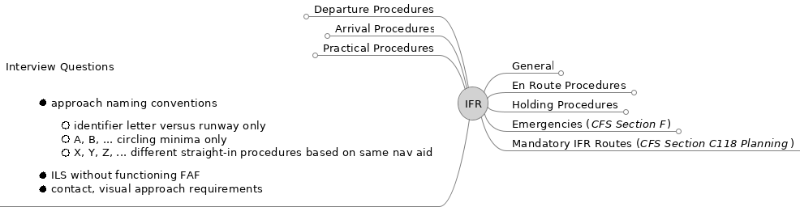
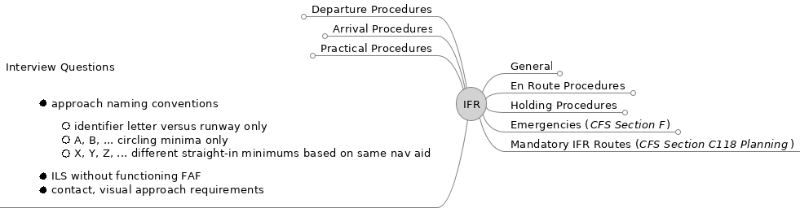
extended IFR mind map

diff --git a/MIFR/IFR.mm b/MIFR/IFR.mm
@@ -177,11 +177,46 @@
 </node>
 <node CREATED="1579645689253" ID="ID_80744334" MODIFIED="1579645696519" TEXT="Development of Instrument Procedures"/>
 </node>
-<node CREATED="1579633414558" FOLDED="true" ID="ID_654204230" MODIFIED="1600721240483" POSITION="left" TEXT="Departure Procedures">
+<node CREATED="1579633414558" FOLDED="true" ID="ID_654204230" MODIFIED="1600805173478" POSITION="left" TEXT="Departure Procedures">
 <node CREATED="1579645753810" ID="ID_1034102258" MODIFIED="1579645765446" TEXT="Aerodrome Operations"/>
 <node CREATED="1579645777165" ID="ID_948846528" MODIFIED="1579645790319" TEXT="Automatic Terminal Information System (ATIS) Broadcast"/>
 <node CREATED="1579645820876" ID="ID_1542868492" MODIFIED="1579645824944" TEXT="Initial Contact"/>
-<node CREATED="1579645828133" ID="ID_72886895" MODIFIED="1579645831414" TEXT="IFR Clearances"/>
+<node CREATED="1579645828133" ID="ID_72886895" MODIFIED="1600803230251">
+<richcontent TYPE="NODE"><html>
+  <head>
+    
+  </head>
+  <body>
+    <p>
+      IFR Clearances
+    </p>
+    <p>
+      
+    </p>
+    <ul>
+      <li>
+        <b>CRAFT</b>
+      </li>
+      <li>
+        <b>C</b>learance Limit (fix or destination)
+      </li>
+      <li>
+        <b>R</b>oute (DP, FPR)
+      </li>
+      <li>
+        <b>A</b>ltitudes
+      </li>
+      <li>
+        <b>F</b>requencies
+      </li>
+      <li>
+        <b>T</b>ransponder Code
+      </li>
+    </ul>
+  </body>
+</html>
+</richcontent>
+</node>
 <node CREATED="1579645846990" ID="ID_425430365" MODIFIED="1579645964937">
 <richcontent TYPE="NODE"><html>
   <head>
@@ -410,7 +445,39 @@
 </node>
 </node>
 <node CREATED="1579644396728" ID="ID_1220853600" MODIFIED="1579644402728" TEXT="Release from Tower Frequency"/>
-<node CREATED="1579644466100" ID="ID_1705369011" MODIFIED="1579644474483" TEXT="Departures from Uncontrolled Airports"/>
+<node CREATED="1579644466100" ID="ID_1705369011" MODIFIED="1600804158477">
+<richcontent TYPE="NODE"><html>
+  <head>
+    
+  </head>
+  <body>
+    <p>
+      Departures from Uncontrolled Airports
+    </p>
+    <p>
+      
+    </p>
+    <ul>
+      <li>
+        clearance indirectly via FSS from ATC
+      </li>
+      <li>
+        clearance directly from ATC (center)
+      </li>
+      <li>
+        hold until release
+      </li>
+      <li>
+        clearance void time
+      </li>
+      <li>
+        option: depart VFR, obtain IFR clearance when airborne
+      </li>
+    </ul>
+  </body>
+</html>
+</richcontent>
+</node>
 <node CREATED="1579644760443" ID="ID_77314256" MODIFIED="1579644770079" TEXT="Alerting Service for Uncontrolled Airports"/>
 <node CREATED="1600365369617" ID="ID_1586590438" MODIFIED="1600389861648">
 <richcontent TYPE="NODE"><html>
@@ -655,7 +722,7 @@
 </node>
 </node>
 </node>
-<node CREATED="1579633433848" FOLDED="true" ID="ID_1247278460" MODIFIED="1600721240489" POSITION="right" TEXT="En Route Procedures">
+<node CREATED="1579633433848" FOLDED="true" ID="ID_1247278460" MODIFIED="1600805902295" POSITION="right" TEXT="En Route Procedures">
 <node CREATED="1579811215993" ID="ID_1170940779" MODIFIED="1579811219032" TEXT="Position Reports"/>
 <node CREATED="1579811805490" ID="ID_1221424960" MODIFIED="1581708542639">
 <richcontent TYPE="NODE"><html>
@@ -813,7 +880,7 @@
 </html></richcontent>
 </node>
 </node>
-<node CREATED="1579633454131" FOLDED="true" ID="ID_307271175" MODIFIED="1600721240513" POSITION="left" TEXT="Arrival Procedures">
+<node CREATED="1579633454131" FOLDED="true" ID="ID_307271175" MODIFIED="1600805869171" POSITION="left" TEXT="Arrival Procedures">
 <node CREATED="1579902070142" ID="ID_1679347722" MODIFIED="1579902074522" TEXT="ATIS Broadcasts"/>
 <node CREATED="1579902101136" FOLDED="true" ID="ID_1440343756" MODIFIED="1600457369291" TEXT="STAR, MSA, and TAA">
 <node CREATED="1579902238003" ID="ID_1587614557" MODIFIED="1581704144363">
@@ -2020,6 +2087,33 @@
 </html></richcontent>
 <icon BUILTIN="messagebox_warning"/>
 <icon BUILTIN="help"/>
+<node CREATED="1600801947839" ID="ID_1963411115" MODIFIED="1600802016697">
+<richcontent TYPE="NODE"><html>
+  <head>
+    
+  </head>
+  <body>
+    <p>
+      Criteria (FAA)
+    </p>
+    <p>
+      
+    </p>
+    <ul http-equiv="content-type" content="text/html; charset=utf-8">
+      <li>
+        The final approach course alignment with the runway centerline exceeds <b>30</b>&#160; degrees.
+      </li>
+      <li>
+        The descent gradient is greater than <b>400</b>&#160;ft/NM from the FAF to the threshold crossing height (TCH). When this maximum gradient is exceeded, the circling only approach procedure may be designed to meet the gradient criteria limits. This does not preclude a straight-in landing if a normal descent and landing can be made in accordance with the applicable CFRs.
+      </li>
+      <li>
+        A runway is not clearly defined on the airfield.
+      </li>
+    </ul>
+  </body>
+</html>
+</richcontent>
+</node>
 </node>
 <node CREATED="1581005627032" ID="ID_1993281242" MODIFIED="1581005631847" TEXT="Circling Procedures"/>
 <node CREATED="1581005740501" ID="ID_42163889" MODIFIED="1581005872770">
@@ -2145,7 +2239,7 @@
   </body>
 </html></richcontent>
 </node>
-<node CREATED="1600715049686" ID="ID_1162526592" MODIFIED="1600718633568">
+<node CREATED="1600715049686" ID="ID_1162526592" MODIFIED="1600801749027">
 <richcontent TYPE="NODE"><html>
   <head>
     
@@ -2159,7 +2253,7 @@
     </p>
     <ul>
       <li>
-        &lt;nav aid&gt; [approach identifier] &lt;runway&gt;
+        &lt;nav aid&gt; [approach identifier] [runway]
       </li>
       <li>
         potentially different procedures and minima using the same nav aid
@@ -2178,7 +2272,10 @@
 
         <ul>
           <li>
-            VOR-A 09: first VOR approach with circling minima only
+            no designated runway
+          </li>
+          <li>
+            VOR-A: first VOR approach with circling minima only
           </li>
           <li>
             VOR DME-B second VOR approach with circling minima only
@@ -2186,14 +2283,14 @@
         </ul>
       </li>
       <li>
-        &lt;nav aid&gt;-<b>X</b>, <b>Y</b>, <b>Z</b>, ... <b>straight-in approaches </b>based on the same nav aid
+        &lt;nav aid&gt;-<b>X</b>, <b>Y</b>, <b>Z</b>, ... <b>straight-in minima </b>based on the same nav aid
 
         <ul>
           <li>
-            RNAV (GNSS) Z 09: first RNAV straight-in approach
+            RNAV (GNSS) Z 09: first RNAV approach with straight-in minima
           </li>
           <li>
-            RNAV (RNP) Y 09: second RNAV straight-in approach
+            RNAV (RNP) Y 09: second RNAV approach with straight-in minima
           </li>
         </ul>
       </li>
@@ -2205,19 +2302,7 @@
 
         <ul>
           <li>
-            required navigational performance
-          </li>
-          <li>
-            certified equipment and aircrew authorization
-          </li>
-        </ul>
-      </li>
-      <li>
-        RNAV (PBN)
-
-        <ul>
-          <li>
-            performance based navigation
+            required navigational performance, PBN
           </li>
           <li>
             certified equipment and aircrew authorization
@@ -2554,7 +2639,7 @@
 </html></richcontent>
 </node>
 </node>
-<node CREATED="1579815802154" FOLDED="true" ID="ID_971957458" MODIFIED="1600721240540" POSITION="left" TEXT="Practical Procedures">
+<node CREATED="1579815802154" FOLDED="true" ID="ID_971957458" MODIFIED="1600801852137" POSITION="left" TEXT="Practical Procedures">
 <node CREATED="1580232275260" ID="ID_1364330056" LINK="BoldMethod/Holding%20Pattern%20Entries%20Boldmethod%20Live%20-%20YouTube.webm" MODIFIED="1598027700042">
 <richcontent TYPE="NODE"><html>
   <head>
@@ -3456,7 +3541,7 @@
 <node CREATED="1582226134506" ID="ID_455174213" MODIFIED="1582226157351" TEXT="Signals for Use in the Event of Interception"/>
 <node CREATED="1582226166020" ID="ID_1035087898" MODIFIED="1582226180568" TEXT="Emergency Security Control of Air Traffic (ESCAT) Plan"/>
 </node>
-<node CREATED="1580500672430" ID="ID_393965596" MODIFIED="1600721230274" POSITION="left">
+<node CREATED="1580500672430" ID="ID_393965596" MODIFIED="1600801288123" POSITION="left">
 <richcontent TYPE="NODE"><html>
   <head>
     
@@ -3480,7 +3565,7 @@
             A, B, ... circling minima only
           </li>
           <li>
-            X, Y, Z, ... different straight-in procedures based on same nav aid
+            X, Y, Z, ... different straight-in minimums based on same nav aid
           </li>
         </ul>
       </li>
